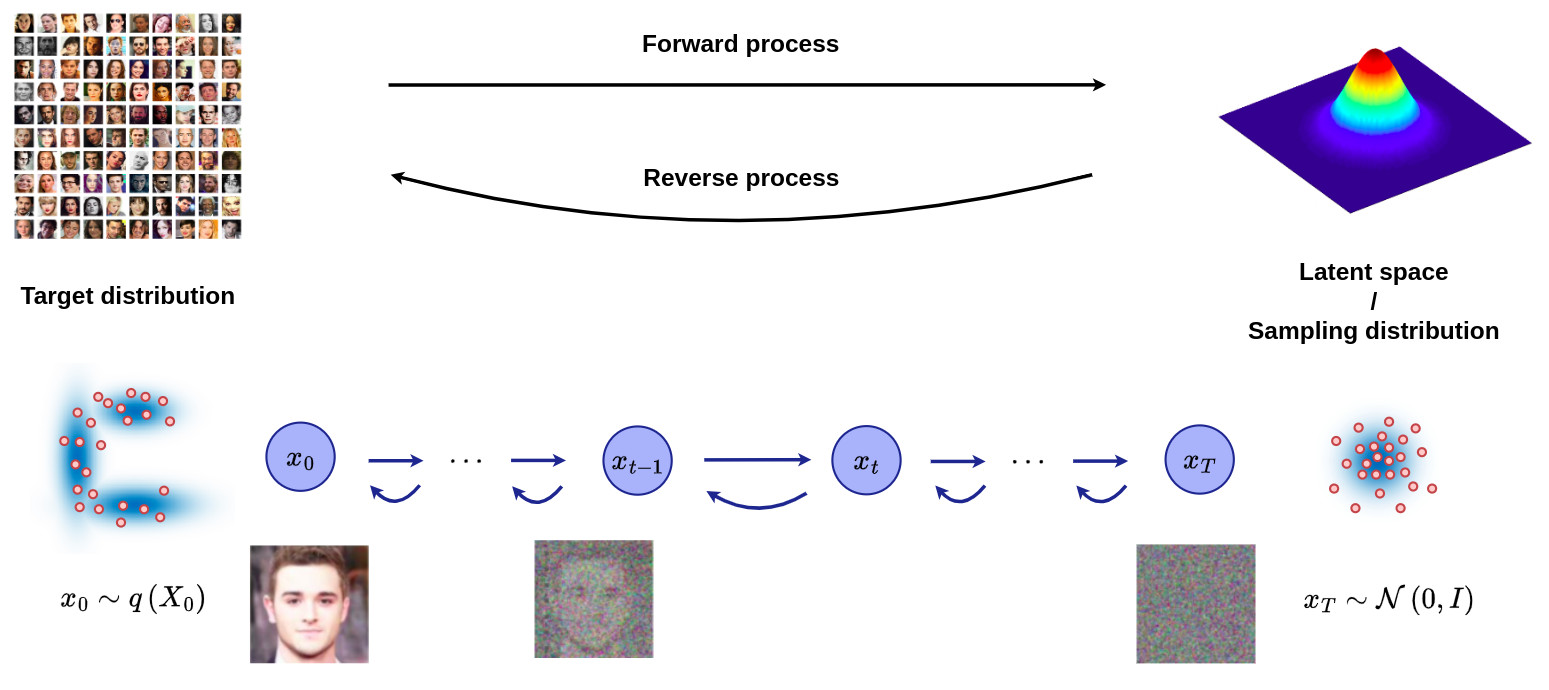
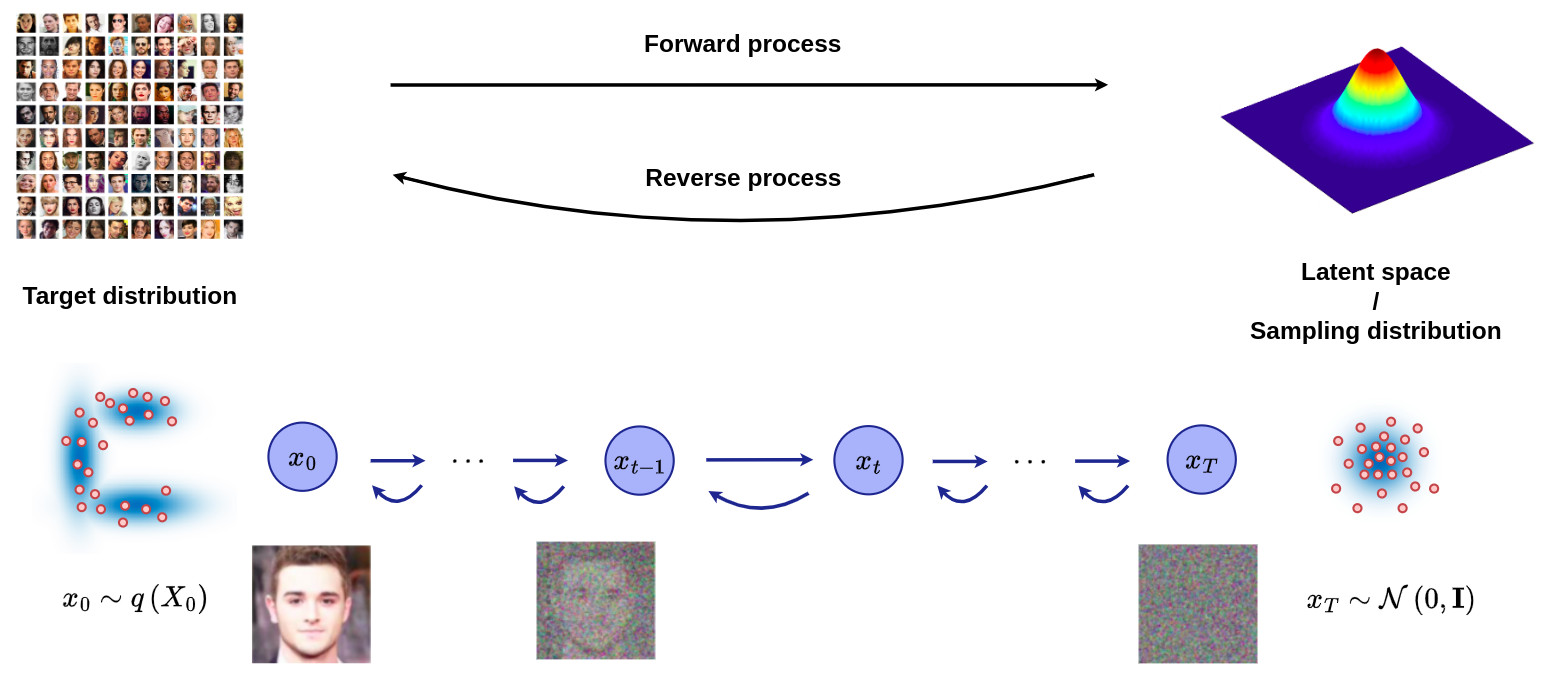
work on the forward process

diff --git a/collections/_tutorials/2023-11-30-tutorial-ddpm.md b/collections/_tutorials/2023-11-30-tutorial-ddpm.md
@@ -61,16 +61,13 @@ categories: diffusion, model
 
 ### Sum of normally distributed variables
 
-- Let X and Y be independent random variables that are normally distributed $$ X \sim \mathcal{N}(\mu _X , \sigma ^2_X)$$ and $$ Y \sim \mathcal{N}(\mu _Y , \sigma ^2_Y)$$.
+- If $$x$$ and $$y$$ be independent random variables that are normally distributed $$ x \sim \mathcal{N}(\mu _X , \sigma ^2_X)$$ and $$ y \sim \mathcal{N}(\mu _Y , \sigma ^2_Y)$$, the sum is equal to $$ x + y \sim \mathcal{N}(\mu _X + \mu _Y, \sigma ^2_X + \sigma ^2_Y)$$
 
-- Their sum is defined as follow : 
-$$ X + Y \sim \mathcal{N}(\mu _X + \mu _Y, \sigma ^2_X + \sigma ^2_Y)$$
+> The sum of two independent normally distributed random variables is also normally distributed, with its mean being the sum of the two means, and its variance being the sum of the two variances.
 
-- The sum of two independent normally distributed random variables is also normally distributed, with its mean being the sum of the two means, and its variance being the sum of the two variances.
+- If $$ x \sim \mathcal{N}(0, 1)$$ then $$ \sigma x \sim \mathcal{N}(0, \sigma ^2)$$. 
 
-- If $$ X \sim \mathcal{N}(0, 1)$$ then $$ \sigma X \sim \mathcal{N}(0, \sigma ^2)$$. 
-
-- If X and Y be independent standard normal random variables $$ X \sim \mathcal{N}(0, 1)$$ and $$ Y \sim \mathcal{N}(0, 1)$$, the sum $$ \sigma _X X +  \sigma _Y Y $$ is normally distributed such as $$\sigma _X X +  \sigma _Y Y \sim \mathcal{N}(0, \sigma ^2_X + \sigma ^2_Y)$$.
+- If x and y be independent standard normal random variables $$ x \sim \mathcal{N}(0, 1)$$ and $$ y \sim \mathcal{N}(0, 1)$$, the sum $$ \sigma _X x +  \sigma _Y y $$ is normally distributed such as $$\sigma _X x +  \sigma _Y y \sim \mathcal{N}(0, \sigma ^2_X + \sigma ^2_Y)$$.
 
 &nbsp;
 
@@ -103,14 +100,13 @@ $$q(x_{0:T}) = q(x_{T}) \prod_{t=1}^{T} q(x_{t-1} \mid x_{t})$$
 ### Reparameterization trick
 
 - Transform a stochastic node sampled from a parameterized distribution into a deterministic ones. 
-- Allows backpropagation to through such a stochastic node by turning him into deterministic node. 
-
-Let's assume that $$x_t$$ is a point sampled from a parameterized gaussian distribution $$q(x_t)$$ with mean $$\mu$$ and variance $$\sigma^2$$. Our model should learn the distribution to subsequently reverse the process. Thus, we want to treat the noise term as a standard normal distribution $$\mathcal{N}(0,1)$$ that is independent of our model (not parameterized by it).  The reparameterization trick make it possible: the sample is drawn from a fixed Gaussian distribution, which we add our $$\mu$$ to and multiply by our standard deviation $$\sigma$$.
+- Allows backpropagation through such a stochastic node by turning it into deterministic node. 
+- Let's assume that $$x_t$$ is a point sampled from a parameterized gaussian distribution $$q(x_t)$$ with mean $$\mu$$ and variance $$\sigma^2$$. 
+- The following reparametrization tricks uses a standard normal distribution $$\mathcal{N}(0,1)$$ that is independent to the model, with $$\epsilon \sim \mathcal{N}(0,1)$$:
 
 $$ x_t = \mu + \sigma \cdot \epsilon$$
 
-The epsilon term introduces the stochastic part ($$\epsilon \sim \mathcal{N}(0,1)$$) and is not involved in the training process. The prediction of the mean and the variance is no longer tied to the stochastic sampling operation. Therefore, we can now compute the gradient and run backpropagation of our loss function with respect to the parameters. 
-
+- The prediction of $$\mu$$ and $$\sigma$$ is no longer tied to the stochastic sampling operation, which allows a simple backpropagation process as illustrated in the figure below
 
 ![](/collections/images/ddpm/reparameterizationTrick.jpg)
 
@@ -118,25 +114,30 @@ The epsilon term introduces the stochastic part ($$\epsilon \sim \mathcal{N}(0,1
 
 ### Information theory reminder
 
-In information theory, Entropy $$H(p)$$ corresponds to the average information of a process. Its expression can be written as, for continuous distributions:
+- Entropy $$H(p)$$ corresponds to the average information of a process defined by its corresponding distribution
 
-$$ H(p) = -\int{p(x)\cdot log\left(p(x)\right)}\,dx$$
+$$ H_{p} = -\int{p(x)\cdot log\left(p(x)\right)}\,dx$$
 
-From this, we can also define the cross entropy between two probability distributions $$p$$ and $$q$$ concerning the same events. 
+> The cross entropy measures the average amount of information you need to add to go from a given distribution $$p$$ to a reference distribution $$q$$
 
-$$H_{pq} = -\int{p(x)\cdot log\left(q(x)\right)}\,dx = \mathbb{E}_{p(x)} [log(q(x))]$$
+$$H_{pq} = -\int{p(x)\cdot log\left(q(x)\right)}\,dx = \mathbb{E}_{x \sim p} [log(q(x))]$$
 
-The cross entropy quantifies the average bit requirement to identify an event selected from a set when using a coding scheme optimized for the estimated probability distribution q, instead of the actual distribution p. We can also define the Kullback–Leibler divergence from this two definitions : 
+
+- It can also been seen as a tool to quantify the extent to which a distribution differs from a reference distribution. It is thus strongly link to the Kullback–Leibler divergence measures as follow:
 
 $$\begin{align}
-D_{KL}(p \| q) &= H(p,q) - H(p) \\
+D_{KL}(p \| q) &= H_{pq} - H_{p} \\
 & = -\int{p(x)\cdot log(q(x))}\,dx + \int{p(x)\cdot log(p(x))}\,dx \\
-& = -\int{p(x)\cdot log(\frac{q(x)}{p(x)})}\,dx \\
-& = \int{p(x)\cdot log(\frac{p(x)}{q(x)})}\,dx \\
-& = \mathbb{E}_{p(x)} [log(\frac{p(x)}{q(x)})]
+& = -\int{p(x)\cdot log\left(\frac{q(x)}{p(x)}\right)}\,dx \\
+& = \int{p(x)\cdot log\left(\frac{p(x)}{q(x)}\right)}\,dx \\
+& = \mathbb{E}_{x\sim p} \left[log\left(\frac{p(x)}{q(x)}\right)\right]
 \end{align}$$
 
-Cross-entropy minimization is frequently used in optimization and rare-event probability estimation. Note that when comparing a distribution $$q$$ against a fixed reference distribution $$p$$, cross-entropy and KL divergence are identical up to an additive constant (since $$p$$ is fixed). Note also that $$H(p)$$, $$H(p,q)$$ and $$D_{KL}(p \| q)$$ are always positives.
+- $$H(p)$$, $$H(p,q)$$ and $$D_{KL}(p \| q)$$ are always positives.
+
+&nbsp;
+
+> When comparing a distribution $$q$$ against a fixed reference distribution $$p$$, cross-entropy and KL divergence are identical up to an additive constant (since $$p$$ is fixed).
 
 
 &nbsp;
@@ -145,35 +146,91 @@ Cross-entropy minimization is frequently used in optimization and rare-event pro
 
 ### Principle
 
-![](/collections/images/ddpm/forwardProcess.jpg)
+&nbsp;
 
-Let define $$x_0$$ a point sampled from a real data distribution $$x_0 \sim q(X_0)$$. The forward process of a probabilistic diffusion model is a Markov chain \(the prediction at the step $$t+1$$ only depends on the state attained at the step $$t$$\) that gradually adds gaussian noise to the data $$x_0$$. We define a forward process with T steps that produces more and more noisy samples $$x_1, x_2,\ldots, x_T$$ : 
+![](/collections/images/ddpm/ddpm-forward-process.jpg)
 
-$$q(x_{1:T}|x_0) = \prod_{t=1}^{T}{q(x_t|x_{t-1})}$$
+&nbsp;
 
-Note in particular that the Markov formulation asserts that a given reverse diffusion transition distribution depends only on the previous timestep. The amount of noise added at each step is controlled by a variance schedule $$\{\beta_t \in (0,1)\}_{t=1}^{T}$$ : 
+- Let define $$x_0$$ a point sampled from a real data distribution $$x_0 \sim q(X_0)$$. 
 
-$$q(x_t|x_{t-1}) = \mathcal{N}(x_t,\sqrt{1 - \beta _t},\beta _t \cdot \textbf{I})$$
+- The forward diffusion process is a procedure where a small amount of Gaussian noise is added to the point sample $$x_0$$, producing a sequence of noisy samples $$x_1, \cdots , x_T$$.
 
-Usually, the scheduler is defined such as $$ \beta _1 <\beta _2 < \ldots < \beta _T $$. A key point in the quality of the results is the construction of the schedule. However, this sampling process is stochastic and so a backprogation for the training of the reverse process will not be possible. We use a [reparameterization trick](#reparameterization-trick) to make the sampling deterministic:
+> The forward process of a probabilistic diffusion model is a Markov chain, i.e. the prediction at step $$t$$ only depends on the state at step $$t-1$$, that gradually adds gaussian noise to the data $$x_0$$. 
 
-$$x_t = \sqrt{1 - \beta _t} x_{t-1} + \sqrt {\beta _t} \epsilon _{t-1} $$
+- The full forward process can be modeled as: 
 
-Let define $$\alpha _t = 1 - \beta _t $$ and $$\bar \alpha _t = \prod_{k=1}^{t}{\alpha _k}$$. As the previous formula is true for all $$t \in [1,T]$$ we can rewrite :
+$$q(x_{1:T} \mid x_0) = \prod_{t=1}^{T}{q(x_t \mid x_{t-1})}$$
 
-$$x_t = \sqrt{1 - \beta _t} (\sqrt{1 - \beta _{t-1}} x_{t-2} + \sqrt {\beta _{t-2}} \epsilon _{t-2} )+ \sqrt {\beta _t} \epsilon _{t-1} $$
+- Based on the definition of the forward process, the conditional distribution $$q(x_t \mid x_{t-1})$$ can be efficiently represented as:
 
-$$x_t = \sqrt{\alpha _t \alpha _{t-1}} x_{t-2} + \sqrt{\alpha _t - \alpha _t \alpha _{t-1}} \epsilon _{t-2} + \sqrt {1- \alpha_t} \epsilon _{t-1} $$
+<div style="text-align:center">
+<span style="color:#00478F">
+$$q(x_t \mid x_{t-1}) = \mathcal{N}\left((\sqrt{1 - \beta _t}) \, x_{t-1},\beta _t \, \textbf{I}\right)$$
+</span>
+</div>
 
-Using the formula for the [sum of normally distributed variables](#sum-of-normally-distributed-variables) we obtain:
+&nbsp;
 
-$$x_t = \sqrt{\alpha _t \alpha _{t-1}} x_{t-2} + \sqrt{1 - \alpha _t \alpha _{t-1}} \bar \epsilon _{t-2} $$
+- The step sizes are controlled by a variance schedule $$\{ \beta_t \in (0,1) \}_{t=1}^T$$
 
-Then we can extend this to earlier timesteps recursively and define directly $$x_t$$ from $$x_0$$: 
+- $$\beta_t$$ becomes increasingly larger as the sample becomes noisier, __i.e.__
 
-$$x_t = \sqrt{\bar \alpha _t} x_0 + \sqrt{1 - \bar \alpha _t} \bar \epsilon _0 $$
+$$0 < \beta_1 < \beta_2 < \cdots < \beta_T < 1$$
 
-Notice that when $$T \rightarrow  \infty $$, $$ x_T $$ is equivalent to a pure noise (Gaussian distribution). We have therefore defined a forward process called a diffusion probabilistic process that introduce slowly noise into an image. 
+- Based on the above equation, the two extrem cases can be easily derived: 
+
+$$\begin{align}
+& \text{if} \quad \beta_t=0 , \quad \text{then} \quad q(x_t \mid x_{t-1})=x_{t-1} \\
+& \text{if} \quad \beta_t=1 , \quad \text{then} \quad q(x_t \mid x_{t-1})=\mathcal{N}(0,\textbf{I})
+\end{align}$$
+
+&nbsp;
+
+- A nice property of the forward process is that we can sample $$x_t$$ at any arbitrary time step $$t$$ in a closed form using [reparametrization trick](#reparameterization-trick) and the property of the [sum of normally distributed variables](#sum-of-normally-distributed-variables), as shown below:
+
+$$q(x_t \mid x_{t-1}) = \mathcal{N}\left((\sqrt{1 - \beta _t}) \, x_{t-1},\beta _t \, \textbf{I}\right)$$
+
+$$x_t = (\sqrt{1 - \beta_t}) \, x_{t-1} + \sqrt{\beta_t} \, \epsilon_{t-1}$$
+
+$$\quad$$ Let's define $$\alpha_t = 1 - \beta_t$$
+
+$$x_t = \sqrt{\alpha_t} \, x_{t-1} + \sqrt {1-\alpha_t} \, \epsilon_{t-1}$$
+
+$$\quad$$ This expression is true for any $$t$$ so we can write
+
+$$x_{t-1} = \sqrt{\alpha_{t-1}} \, x_{t-2} + \sqrt{1-\alpha_{t-1}} \, \epsilon_{t-2}$$
+
+$$\quad$$ and
+
+$$x_t = \sqrt{\alpha_t \alpha_{t-1}} \, x_{t-2} + \sqrt{\alpha_t- \alpha_t \alpha_{t-1}} \, \epsilon_{t-2} + \sqrt{1-\alpha_t} \, \epsilon_{t-1}$$
+
+$$x_t \sim \mathcal{N}\left(\sqrt{\alpha_t \alpha_{t-1}} \, x_{t-2}, \alpha_t- \alpha_t \alpha_{t-1} \right) + \mathcal{N}\left(0, 1-\alpha_t \right)$$
+
+$$x_t \sim \mathcal{N}\left(\sqrt{\alpha_t \alpha_{t-1}} \, x_{t-2}, \alpha_t- \alpha_t \alpha_{t-1} + 1-\alpha_t \right)$$
+
+$$x_t \sim \mathcal{N}\left(\sqrt{\alpha_t \alpha_{t-1}} \, x_{t-2}, 1 - \alpha_t \alpha_{t-1} \right)$$
+
+$$x_t = \sqrt{\alpha_t \alpha_{t-1}} \, x_{t-2} + \sqrt{1-\alpha_t \alpha_{t-1}} \, \bar{\epsilon}_{t-2}$$
+
+$$\quad$$ One can repeat this process recursively until reaching and expression of $$x_t$$ from $$x_0$$:
+
+$$x_t = \sqrt{\alpha_t \cdots \alpha_1} \, x_0 + \sqrt{1 - \alpha_t \cdots \alpha_1} \, \bar \epsilon _0 $$
+
+$$\quad$$ By defining $$\bar{\alpha}_t = \prod_{k=1}^{t}{\alpha _k}$$, we finally get this final relation
+
+<div style="text-align:center">
+<span style="color:#00478F">
+$$x_t = \sqrt{\bar{\alpha}_t} \, x_0 + \sqrt{1 - \bar{\alpha}_t} \, \bar{\epsilon}_0$$
+</span>
+</div>
+
+
+> When $$\, T \rightarrow \infty$$, $$\, \beta_t \rightarrow 1$$, $$\, \alpha_t \rightarrow 0$$, thus $$\, \bar{\alpha}_t \rightarrow 0$$ and $$\, x_T \sim \mathcal{N(0,\mathbf{I})}$$. 
+
+> This means that $$x_T$$ is equivalent to a pure noise from a Gaussian distribution. We have therefore defined a forward process called a diffusion probabilistic process that introduce slowly noise into an image. 
+
+&nbsp;
 
 ### How to define the scheduler ?
 
